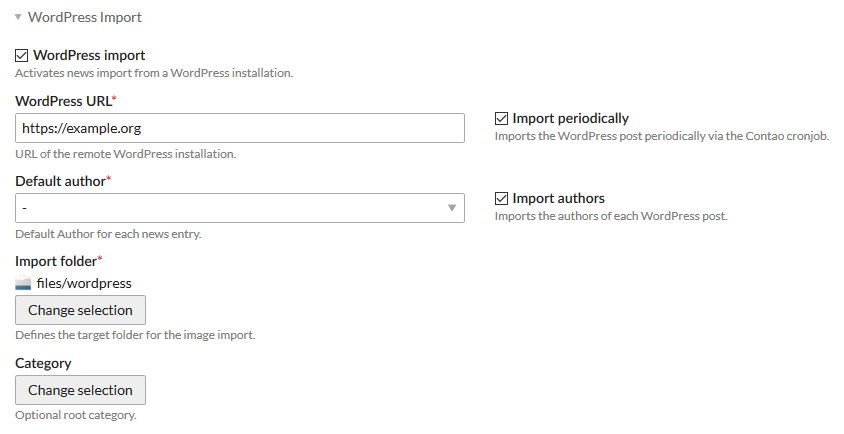
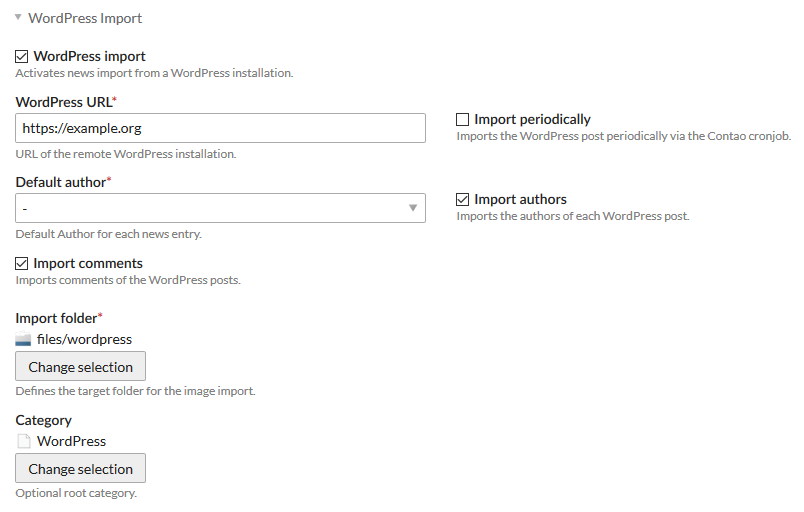
added comments import

diff --git a/src/WordPressImportBundle/Resources/contao/dca/tl_news_archive.php b/src/WordPressImportBundle/Resources/contao/dca/tl_news_archive.php
@@ -22,7 +22,7 @@ $GLOBALS['TL_LANG']['tl_news_archive']['wordpress_import'] = 'WordPress Import';
 
 $GLOBALS['TL_DCA']['tl_news_archive']['fields']['wpImport'] = array
 (
-    'label'     => &$GLOBALS['TL_LANG']['tl_news_archive']['wpImport'],//['WordPress Import', 'Aktiviert den Import von einer WordPress Installation.'],
+    'label'     => &$GLOBALS['TL_LANG']['tl_news_archive']['wpImport'],
     'exclude'   => true,
     'inputType' => 'checkbox',
     'eval'      => array('submitOnChange'=>true),
@@ -31,7 +31,7 @@ $GLOBALS['TL_DCA']['tl_news_archive']['fields']['wpImport'] = array
 
 $GLOBALS['TL_DCA']['tl_news_archive']['fields']['wpImportUrl'] = array
 (
-    'label'     => &$GLOBALS['TL_LANG']['tl_news_archive']['wpImportUrl'],//['WordPress URL', 'URL zu der WordPress Installation.'],
+    'label'     => &$GLOBALS['TL_LANG']['tl_news_archive']['wpImportUrl'],
     'exclude'   => true,
     'inputType' => 'text',
     'eval'      => array('mandatory'=>true, 'rgxp'=>'url', 'decodeEntities'=>true, 'maxlength'=>255, 'tl_class'=>'w50'),
@@ -40,7 +40,7 @@ $GLOBALS['TL_DCA']['tl_news_archive']['fields']['wpImportUrl'] = array
 
 $GLOBALS['TL_DCA']['tl_news_archive']['fields']['wpImportFolder'] = array
 (
-    'label'     => &$GLOBALS['TL_LANG']['tl_news_archive']['wpImportFolder'],//['Import Verzeichnis', 'Legt das Verzeichnis für den Import der Bilder fest.'],
+    'label'     => &$GLOBALS['TL_LANG']['tl_news_archive']['wpImportFolder'],
     'exclude'   => true,
     'inputType' => 'fileTree',
     'eval'      => array('files'=>false, 'fieldType'=>'radio', 'mandatory'=>true, 'tl_class'=>'clr'),
@@ -49,7 +49,7 @@ $GLOBALS['TL_DCA']['tl_news_archive']['fields']['wpImportFolder'] = array
 
 $GLOBALS['TL_DCA']['tl_news_archive']['fields']['wpDefaultAuthor'] = array
 (
-    'label'      => &$GLOBALS['TL_LANG']['tl_news_archive']['wpDefaultAuthor'],//['Standard Autor', 'Der Standard Autor, falls keine Autoren importiert werden.'],
+    'label'      => &$GLOBALS['TL_LANG']['tl_news_archive']['wpDefaultAuthor'],
     'exclude'    => true,
     'inputType'  => 'select',
     'foreignKey' => 'tl_user.name',
@@ -60,7 +60,7 @@ $GLOBALS['TL_DCA']['tl_news_archive']['fields']['wpDefaultAuthor'] = array
 
 $GLOBALS['TL_DCA']['tl_news_archive']['fields']['wpImportAuthors'] = array
 (
-    'label'     => &$GLOBALS['TL_LANG']['tl_news_archive']['wpImportAuthors'],//['Autoren importieren', 'Importiert die Autoren der WordPress Posts.'],
+    'label'     => &$GLOBALS['TL_LANG']['tl_news_archive']['wpImportAuthors'],
     'exclude'   => true,
     'inputType' => 'checkbox',
     'eval'      => array('tl_class'=>'w50 m12'),
@@ -69,19 +69,20 @@ $GLOBALS['TL_DCA']['tl_news_archive']['fields']['wpImportAuthors'] = array
 
 $GLOBALS['TL_DCA']['tl_news_archive']['fields']['wpImportCron'] = array
 (
-    'label'     => &$GLOBALS['TL_LANG']['tl_news_archive']['wpImportCron'],//['Periodisch importieren', 'Importiert WordPress Posts periodisch über den Contao Cronjob.'],
+    'label'     => &$GLOBALS['TL_LANG']['tl_news_archive']['wpImportCron'],
     'exclude'   => true,
     'inputType' => 'checkbox',
     'eval'      => array('tl_class'=>'w50 m12'),
     'sql'       => "char(1) NOT NULL default ''"
 );
 
+
 if (in_array('news_categories', array_keys(System::getContainer()->getParameter('kernel.bundles'))))
 {
     $GLOBALS['TL_DCA']['tl_news_archive']['subpalettes']['wpImport'] = str_replace(',wpImportFolder', ',wpImportFolder,wpImportCategory', $GLOBALS['TL_DCA']['tl_news_archive']['subpalettes']['wpImport']);
     $GLOBALS['TL_DCA']['tl_news_archive']['fields']['wpImportCategory'] = array
     (
-        'label'      => &$GLOBALS['TL_LANG']['tl_news_archive']['wpImportCategory'],//['Kategorie', 'Optionale Wurzel-Kategorie.'],
+        'label'      => &$GLOBALS['TL_LANG']['tl_news_archive']['wpImportCategory'],
         'exclude'    => true,
         'inputType'  => 'treePicker',
         'foreignKey' => 'tl_news_category.title',
@@ -89,3 +90,18 @@ if (in_array('news_categories', array_keys(System::getContainer()->getParameter(
         'sql'        => "int(10) unsigned NOT NULL default '0'"
     );
 }
+
+
+if (in_array('ContaoCommentsBundle', array_keys(System::getContainer()->getParameter('kernel.bundles'))))
+{
+    $GLOBALS['TL_DCA']['tl_news_archive']['subpalettes']['wpImport'] = str_replace(',wpImportAuthors', ',wpImportAuthors,wpImportComments', $GLOBALS['TL_DCA']['tl_news_archive']['subpalettes']['wpImport']);
+    $GLOBALS['TL_DCA']['tl_news_archive']['fields']['wpImportComments'] = array
+    (
+        'label'      => &$GLOBALS['TL_LANG']['tl_news_archive']['wpImportComments'],//['Kategorie', 'Optionale Wurzel-Kategorie.'],
+        'exclude'    => true,
+        'inputType' => 'checkbox',
+        'eval'      => array('tl_class'=>'w50'),
+        'sql'       => "char(1) NOT NULL default ''"
+    );
+}
+

diff --git a/src/WordPressImportBundle/Service/Importer.php b/src/WordPressImportBundle/Service/Importer.php
@@ -14,6 +14,7 @@
 
 namespace WordPressImportBundle\Service;
 
+use Contao\CommentsModel;
 use Contao\Config;
 use Contao\ContentModel;
 use Contao\CoreBundle\Framework\ContaoFramework;
@@ -27,7 +28,6 @@ use Contao\UserModel;
 use Doctrine\DBAL\Connection;
 use GuzzleHttp\Client;
 use NewsCategories\NewsCategoryModel;
-use Symfony\Component\VarDumper\VarDumper;
 
 class Importer
 {
@@ -50,6 +50,11 @@ class Importer
      * API endpoint for media (images)
      */
     const API_MEDIA = "/wp-json/wp/v2/media";
+
+    /**
+     * API endpoint for comments
+     */
+    const API_COMMENTS = "/wp-json/wp/v2/comments";
 
 	/**
 	 * Database connection
@@ -269,6 +274,8 @@ class Importer
         // import the authors
         $this->importAuthor($client, $objPost, $objNews, $objArchive);
 
+        // import comments
+        $this->importComments($client, $objPost, $objNews);
     }
 
 
@@ -587,5 +594,40 @@ class Importer
 
         // return the category
         return $objCategory;
+    }
+
+
+    /**
+     * Imports comments for a news item
+     * @param Client $client
+     * @param object $objPost
+     * @param NewsModel $objNews
+     * @return void
+     */
+    protected function importComments(Client $client, $objPost, NewsModel $objNews)
+    {
+        // only import comments, if the ContaoCommentsBundle is available
+        if (!in_array('ContaoCommentsBundle', array_keys(System::getContainer()->getParameter('kernel.bundles'))))
+        {
+            return;
+        }
+
+        // retreive the comments for the post
+        $arrComments = $this->request($client, self::API_COMMENTS, ['post' => $objPost->id]);
+
+        // go through each comment
+        foreach ($arrComments as $objWPComment)
+        {
+            $objComment = new CommentsModel();
+            $objComment->tstamp = time();
+            $objComment->source = 'tl_news';
+            $objComment->parent = $objNews->id;
+            $objComment->date = strtotime($objWPComment->date_gmt);
+            $objComment->name = $objWPComment->author_name;
+            $objComment->website = $objWPComment->author_url;
+            $objComment->comment = $objWPComment->content->rendered;
+            $objComment->published = ('approved' == $objWPComment->status);
+            $objComment->save();
+        }
     }
 }

diff --git a/src/WordPressImportBundle/Resources/contao/languages/de/tl_news_archive.php b/src/WordPressImportBundle/Resources/contao/languages/de/tl_news_archive.php
@@ -21,3 +21,4 @@ $GLOBALS['TL_LANG']['tl_news_archive']['wpDefaultAuthor'] = array('Standard Auto
 $GLOBALS['TL_LANG']['tl_news_archive']['wpImportAuthors'] = array('Autoren importieren', 'Importiert die Autoren der WordPress Posts.');
 $GLOBALS['TL_LANG']['tl_news_archive']['wpImportCron'] = array('Periodisch importieren', 'Importiert WordPress Posts periodisch über den Contao Cronjob.');
 $GLOBALS['TL_LANG']['tl_news_archive']['wpImportCategory'] = array('Kategorie', 'Optionale Wurzel-Kategorie.');
+$GLOBALS['TL_LANG']['tl_news_archive']['wpImportComments'] = array('Kommentare importieren', 'Importiert Kommentare der WordPress Posts.');

diff --git a/src/WordPressImportBundle/Resources/contao/languages/en/tl_news_archive.php b/src/WordPressImportBundle/Resources/contao/languages/en/tl_news_archive.php
@@ -21,3 +21,4 @@ $GLOBALS['TL_LANG']['tl_news_archive']['wpDefaultAuthor'] = array('Default autho
 $GLOBALS['TL_LANG']['tl_news_archive']['wpImportAuthors'] = array('Import authors', 'Imports the authors of each WordPress post.');
 $GLOBALS['TL_LANG']['tl_news_archive']['wpImportCron'] = array('Import periodically', 'Imports the WordPress post periodically via the Contao cronjob.');
 $GLOBALS['TL_LANG']['tl_news_archive']['wpImportCategory'] = array('Category', 'Optional root category.');
+$GLOBALS['TL_LANG']['tl_news_archive']['wpImportComments'] = array('Import comments', 'Imports comments of the WordPress posts.');

diff --git a/README.md b/README.md
@@ -25,6 +25,7 @@ Once installed, you will have new options within a news archive:
 * __Import periodically__: Instead of importing the WordPress posts via console command (see below), you can activate a periodic import here, which will be done via Contao's cronjob.
 * __Default author__: Every imported news item will have this author assigned, if no other author is available (see next option).
 * __Import authors__: This will generate new backend users for each new found author. Existing authors are identified by their name, so if your Contao installation already has a backend user with the same name as an author from a WordPress post, that backend user will be used as the author. _Note:_ the automatically generated authors are just bare entries. They will only have their name set. They will not have a username or password and they will be disabled by default.
+* __Import comments__: This will import the comments of each WordPress post, if the Contao Comments Bundle is present. _Note:_ the email field of each commenter will __not__ be filled, since that is obviously not available via the public WP REST API.
 * __Import folder__: When a WordPress posts gets imported, its teaser image and all images from its detailed content are saved to this folder.
 * __Category__: This is an optional root category, under which every imported category of the WordPress posts will reside. If you do not specify a root category, the imported categories will be imported to the root. _Note:_ this option will only be available, if you have the [`news_categories`](https://github.com/codefog/contao-news_categories) extension installed.
 
@@ -44,6 +45,6 @@ Use `bin/console` in the Contao Standard Edition.
 
 ### Periodic import
 
-If you activated the periodic import, the WordPress posts will be imported _hourly_ by Contao's cronjob. _Note:_ by default only __10__ items will be imported with each cronjob execution. The import can take a long time (depending on the number of WordPress posts and the number of images to be downloaded). This limit is there so that a cronjob execution does not block a user's request for a long time (or at least until the `max_execution_time` limit is hit).
+If you activated the periodic import, the WordPress posts will be imported _hourly_ by Contao's cronjob. 
 
-You can change this limit in the _System Settings_.
+_Note:_ by default only __10__ items will be imported with each cronjob execution. The import can take a long time (depending on the number of WordPress posts and the number of images to be downloaded). This limit is there so that a cronjob execution does not block a user's request for a long time (or at least until the `max_execution_time` limit is hit). You can change this limit in the _System Settings_.
